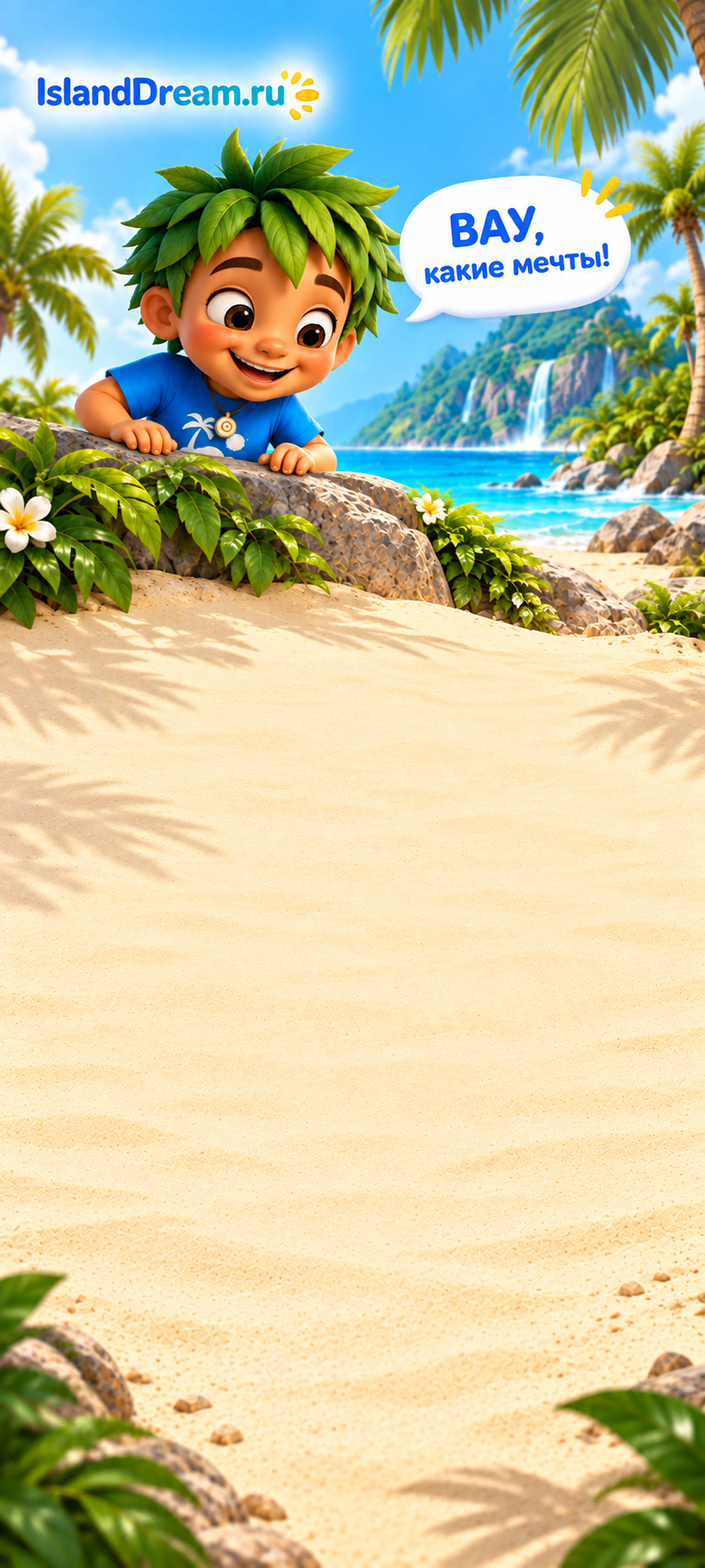
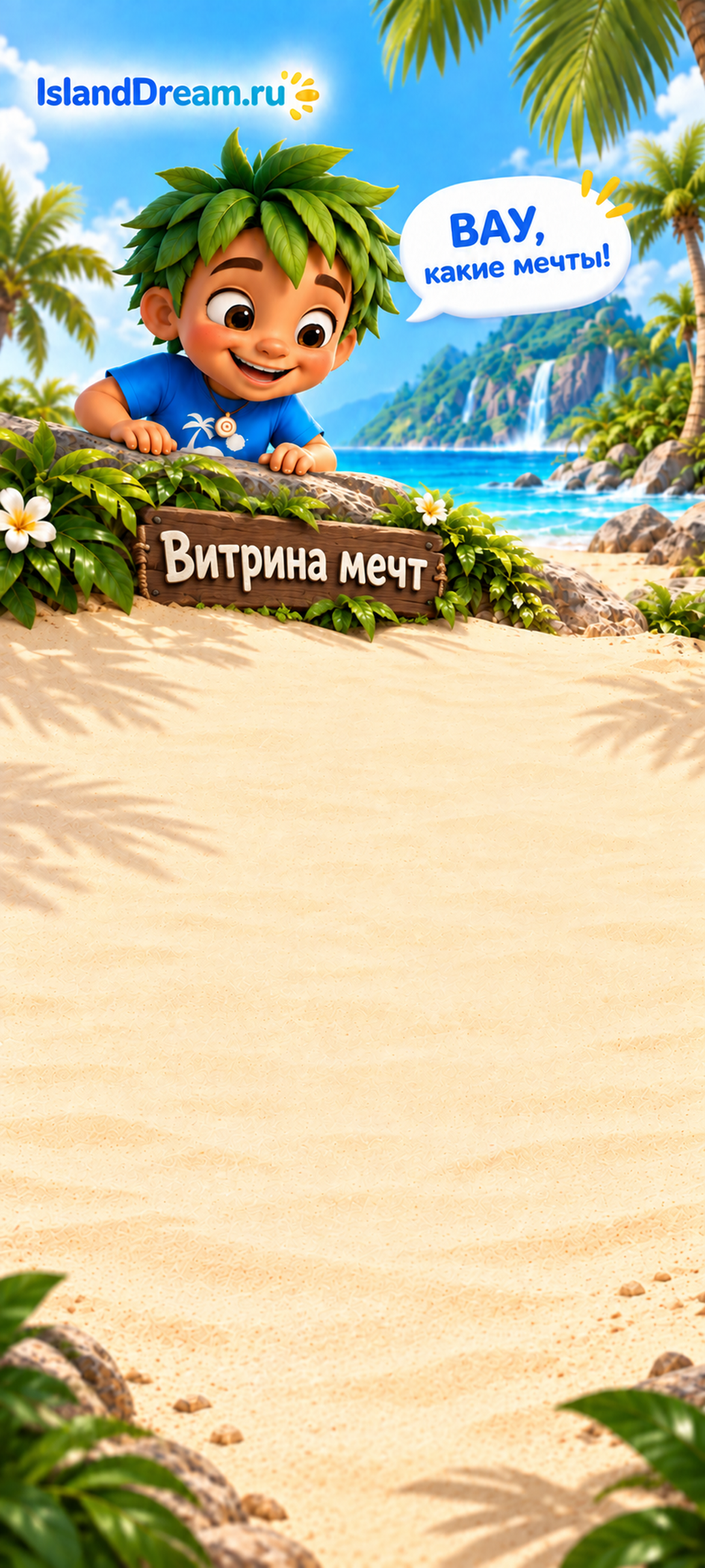
Tim: bake vitrine plaque into confirm-many wallpaper.
Drop HTML plaque overlay; use many scene for any non-empty showcase until one_vitrine arrives.

diff --git a/sites/tim/index.html b/sites/tim/index.html
@@ -8,7 +8,7 @@
   <link rel="preconnect" href="https://fonts.googleapis.com">
   <link rel="preconnect" href="https://fonts.gstatic.com" crossorigin>
   <link href="https://fonts.googleapis.com/css2?family=Inter:wght@400;600;700;800&display=swap" rel="stylesheet">
-  <link rel="stylesheet" href="css/main.css?v=27">
+  <link rel="stylesheet" href="css/main.css?v=29">
 </head>
 <body>
   <a class="skip-link" href="#tim-card">К форме</a>

diff --git a/sites/tim/js/assets.js b/sites/tim/js/assets.js
@@ -104,7 +104,9 @@
   }
 
   function confirmSceneForCount(n) {
-    return n <= 1 ? SCENE.confirmOne : SCENE.confirmMany;
+    // Табличка «Витрина мечт» пока вшита в many; one_vitrine ждём от Компаса
+    // Поэтому при ≥1 мечте всегда many (пузырь «какие мечты»).
+    return SCENE.confirmMany;
   }
 
   global.TIM_ASSETS = {
